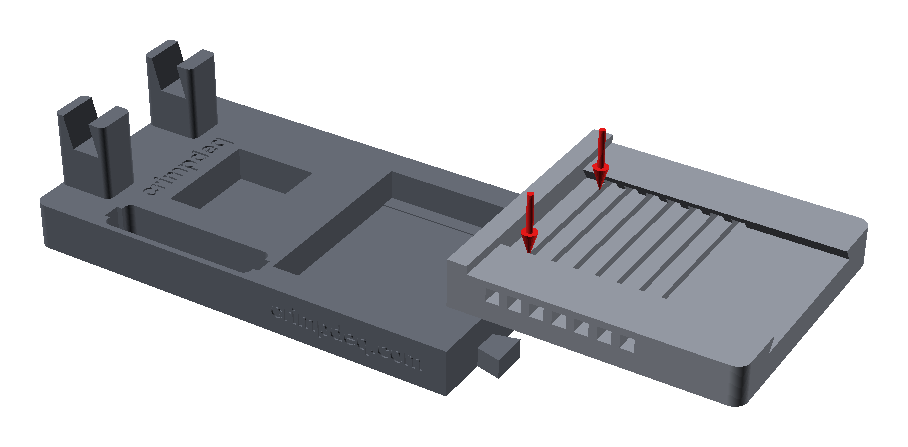
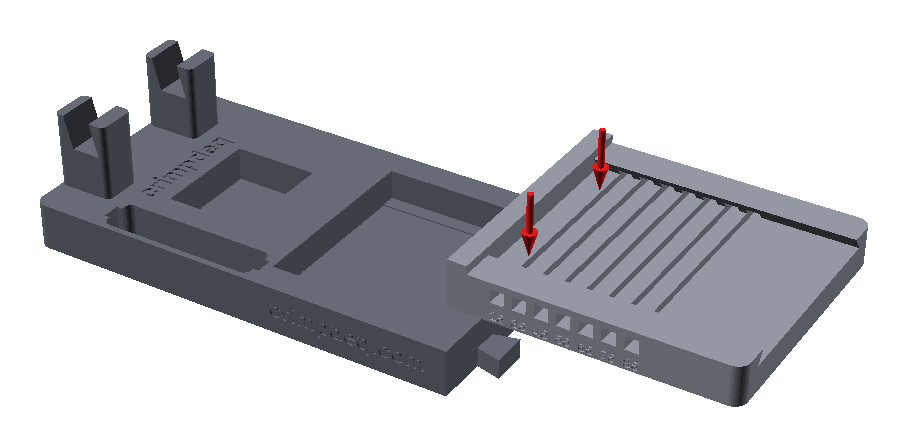
feat: engrave the hand opening under each key hole
Engrave 25-85 on both side faces of the rear base half, under each key
hole and below the key head, so the fitted key shows its setting from
either side. The side engraving is shared with the brand.

Re-render the book images that show the base; six were also stale since
the palm rest was widened.

diff --git a/docs/src/build/assembly.md b/docs/src/build/assembly.md
@@ -51,8 +51,9 @@ grip. Push the key, tip first, into the side of the base, through the groove
 under the bolster, until its head meets the base. It fits from either side,
 with its head pointing away from the grip.
 
-The seven key holes along each side, counted from the grip, set the opening
-between the finger lip and the palm face: 25 to 85 mm in 10 mm steps. To
+The seven key holes along each side set the opening between the finger lip
+and the palm face: 25 to 85 mm in 10 mm steps, engraved under each hole and
+read below the key's head. To
 change it, pull the key out by its head, slide the rest until its groove
 lines up with the new hole, and push the key in again.
 
